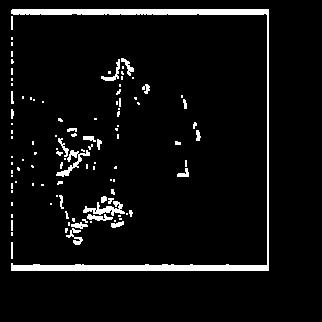
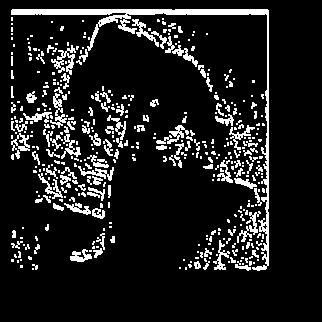
push regiongrowing working

diff --git a/src/ImgSegmentation/regionGrowing.java b/src/ImgSegmentation/regionGrowing.java
@@ -6,29 +6,21 @@ import java.awt.image.BufferedImage;
 import java.io.File;
 import java.io.IOException;
 public class regionGrowing {
-    public static void runner() throws IOException {
+    public static void runner(String inputpath) throws IOException {
         try
         {
-            BufferedImage input1 = ImageIO.read(new File("images/input/1_leaf.JPG"));
-            BufferedImage output ;
+            BufferedImage input1 = ImageIO.read(new File(inputpath));
+            final int threshold = 25;
             int h = input1.getHeight();
             int w = input1.getWidth();
+            BufferedImage output = new BufferedImage(h, w, BufferedImage.TYPE_INT_ARGB);
             int pr,pg,pb,pa;
-            int [][] im =  Utility.GSArray(input1);
             int [][] rarray = new int[h][w];
             int [][] garray = new int[h][w];
             int [][] barray = new int[h][w];
             int [][] aarray = new int[h][w];
             int [][] mask =new int[h][w];
-            int [][] finali =new int[h][w];
-            int [][] bdiff =new int[h][w];
-            int [][] adiff =new int[h][w];
-            pr = rarray[0][0];
-            pg = garray[0][0];
-            pb = barray[0][0];
-            pa = aarray[0][0];
 
-            output = new BufferedImage(h, w, BufferedImage.TYPE_INT_ARGB);
 
             int p=0;
             for( int i = 0 ; i < w ; i++ ) {
@@ -41,30 +33,35 @@ public class regionGrowing {
                     barray[i][j] = p & 0xff;
                 }
             }
+
+            pr = rarray[0][0];
+            pg = garray[0][0];
+            pb = barray[0][0];
+            pa = aarray[0][0];
+
             int a = 0, r = 0, g= 0, b = 0;
             for (int i = 0; i < h; i++) {
                 for (int j = 0; j < w; j++) {
                     // diff
-                    if (Math.abs(pr - rarray[i][j]) >= 10 && Math.abs(pg - garray[i][j]) >= 10 && Math.abs(pb - barray[i][j]) >= 10) {
-                        mask[i][j] = 1;
-                    } else {
-                        mask[i][j] = 0;
-                    }
-                    if (mask[i][j] == 1) {
-                        p = input1.getRGB(i, j);
-                        output.setRGB(i, j, p);
-                    } else {
+                    if ((Math.abs(pr - rarray[i][j]) >= threshold) && (Math.abs(pg - garray[i][j]) >= threshold) && (Math.abs(pb - barray[i][j]) >= threshold)) {
+
                         p = (a << 24) | (r << 16) | (g << 8) | b;
+                        output.setRGB(i, j, p);
+                    }
+                    else {
+                        p = input1.getRGB(i, j);
                         output.setRGB(i, j, p);
                     }
                 }
             }
-            System.out.println("Ol=kay");
-            //File f = new File("OutputSegment.png");
-            ImageIO.write(output,"PNG",  new File("images/output/opseg.png"));
-            System.out.println("Done kay");
-
-        }catch(Exception e){
+try {
+    ImageIO.write(output, "png", new File("images/output/2_SegOP.png"));
+    System.out.println("Done with region growing");
+} catch (IOException e) {
+    e.printStackTrace();
+}
+        }
+        catch(Exception e){
             e.printStackTrace();
         }
     }

diff --git a/src/Main/EdgeD_SubDriver.java b/src/Main/EdgeD_SubDriver.java
@@ -19,7 +19,7 @@ public class EdgeD_SubDriver {
         int[][] im,im2=null;
 
         try {
-            BufferedImage input1 = ImageIO.read(new File("images/input/1_leaf.JPG"));
+            BufferedImage input1 = ImageIO.read(new File("images/output/2_SegOP.png"));
             //canny
             
             BufferedImage output1 = Canny.CannyEdges(input1, CANNY_STD_DEV, CANNY_THRESHOLD_RATIO);

diff --git a/src/Main/Driver.java b/src/Main/Driver.java
@@ -1,8 +1,10 @@
 package Main;
 
+import java.io.IOException;
+
 public class Driver {
-    public static void main(String[] args) {
-        //ImSeg_SubDriver.runner();
+    public static void main(String[] args) throws IOException {
+        ImSeg_SubDriver.runner();
         EdgeD_SubDriver.runner();
         ShapeF_SubDriver.runner();
         TextrExt_SubDriver.runner();

diff --git a/src/Main/ImSeg_SubDriver.java b/src/Main/ImSeg_SubDriver.java
@@ -14,7 +14,7 @@ public class ImSeg_SubDriver {
         Segment seg = new Segment(open,file);
         //MedianFilter obj = new MedianFilter(seg);
 */
-        regionGrowing.runner();
+        regionGrowing.runner(file);
 
     }
 }
